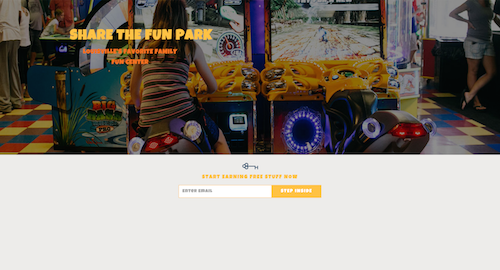
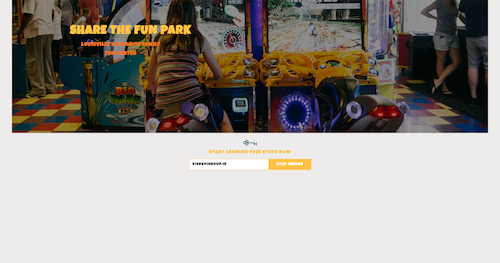
share the fun park added

diff --git a/portfolio/sharethefunpark.html b/portfolio/sharethefunpark.html
@@ -1,0 +1,66 @@
+---
+layout: default
+title: Inkoop | Ruby on Rails Developer Consultancy Requirement Bangalore
+description: Request a quote on your Ruby on Rails Project
+---
+
+<!-- HERO -->
+<section id="hero" class="module-hero bg-black-alfa-40 color-white parallax" data-background="/images/portfolio/sharethefunpark/1.png">
+
+  <!-- HERO TEXT -->
+  <div class="hero-caption">
+    <div class="hero-text">
+
+      <div class="container">
+
+        <div class="row">
+          <div class="col-sm-12 text-center">
+            <h1 class="text-uppercase text-xl montserrat m-0">Share the fun park</h1>
+          </div>
+        </div>
+
+      </div>
+
+    </div>
+  </div>
+  <!-- END HERO TEXT -->
+
+</section>
+<!-- END HERO -->
+
+<!-- PORTFOLIO -->
+<section class="module">
+  <div class="container">
+
+    <div class="row">
+      <div class="col-sm-12">
+        <p>
+          <div class="image-slider" data-carousel-options='{"transitionStyle": "fadeUp"}'>
+            <img src="/images/portfolio/sharethefunpark/1.png" alt="">
+            <img src="/images/portfolio/sharethefunpark/2.png" alt="">
+          </div>
+        </p>
+      </div>
+    </div><!-- .row -->
+
+    <div class="row m-t-50">
+
+      <div class="col-sm-4">
+        <ul class="portfolio-info">
+          <li><h5>Client:</h5><span>Athletrak</span></li>
+          <li><h5>Development hours:</h5><span>800</span></li>
+          <li><h5>Technologies:</h5>Rails on Rails, Javascript, HTML, CSS, Prelaunch</li>
+        </ul>
+      </div>
+
+      <!-- CONTENT -->
+      <div class="col-sm-8">
+        <p>Sharethefunpark is campaign where you can earn prizes by referring people to the website. We used a open source code available for the campaign in Rails 3 and upgraded it to Rails 4 and made design changes. We also added more features on top of it.</p>
+      </div>
+      <!-- END CONTENT -->
+
+    </div><!-- .row -->
+
+  </div>
+</section>
+<!-- END PORTFOLIO -->

diff --git a/index.html b/index.html
@@ -102,7 +102,7 @@ layout: default
       </div>
 
       <div class="col-sm-4">
-        <a class="feature" href="">
+        <a class="feature" href="/portfolio/sharethefunpark">
           <div class="image" style="background-image: url('images/portfolio/sharethefunpark/thumb.png');"></div>
           <h4>Share the fun park</h4>
         </a>
